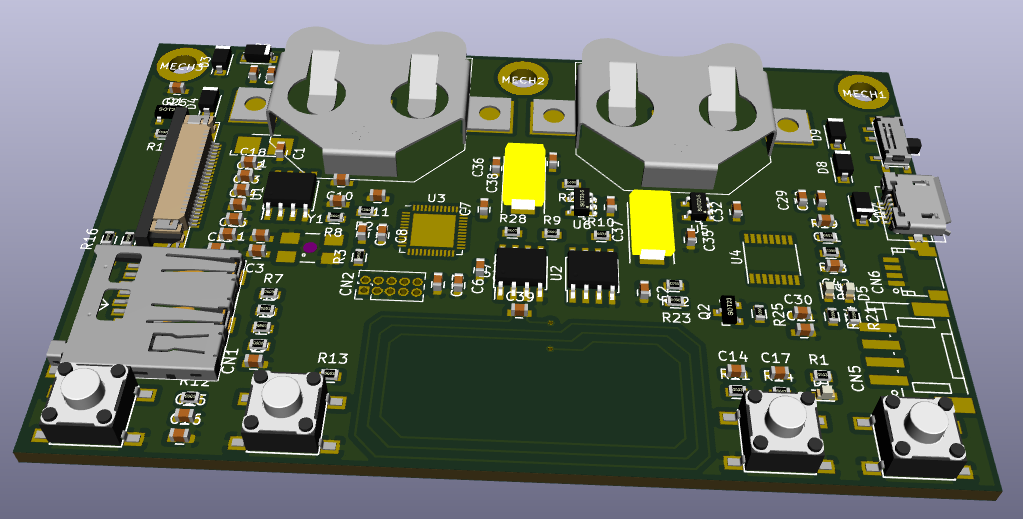
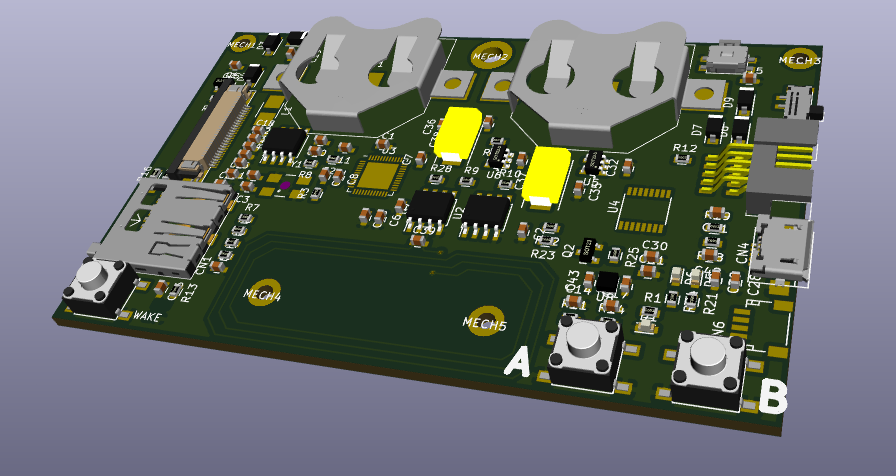
updated screenshots

diff --git a/README.md b/README.md
@@ -12,4 +12,8 @@
 
 ![snowfox-hw-business-card PCB top](docs/images/snowfox-hw-business-card_top.png)
 
+### Bottom
+
+![snowfox-hw-business-card PCB bot](docs/images/snowfox-hw-business-card_bot.png)
+
 
